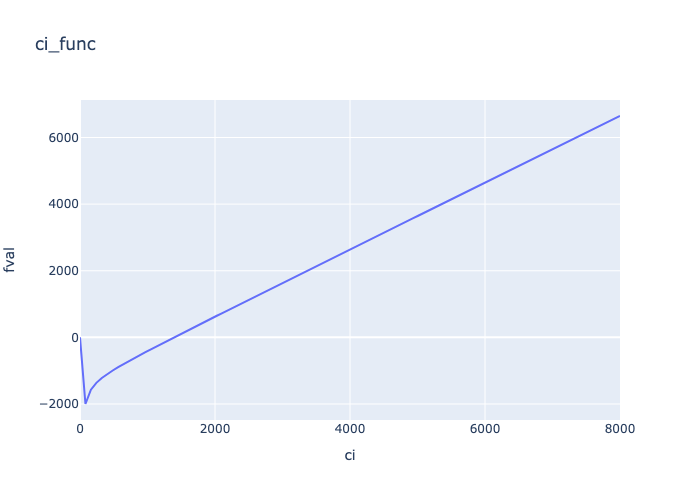
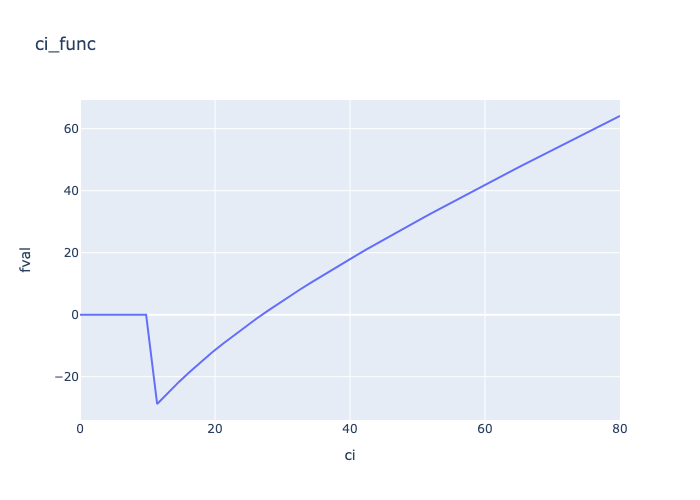
Update photosynthesis parameters

diff --git a/python_ci_func/jax_photosynthesis.py b/python_ci_func/jax_photosynthesis.py
@@ -2,7 +2,22 @@
 
 import jax.numpy as np
 
-def ci_func(ci, lmr_z, par_z, gb_mol, je, cair, oair, rh_can, p, iv, c, c3flag=True, stomatalcond_mtd=1):
+
+def ci_func(
+    ci,
+    lmr_z,
+    par_z,
+    gb_mol,
+    je,
+    cair,
+    oair,
+    rh_can,
+    p,
+    iv,
+    c,
+    c3flag=True,
+    stomatalcond_mtd=1,
+):
     # Constants
     forc_pbot = 121000.0
     medlynslope = 6.0
@@ -23,8 +38,8 @@ def ci_func(ci, lmr_z, par_z, gb_mol, je, cair, oair, rh_can, p, iv, c, c3flag=T
 
     # C3 or C4 photosynthesis
     if c3flag:
-        ac = vcmax_z * max(ci-cp, 0.0) / (ci+kc*(1.0+oair/ko))
-        aj = je * max(ci-cp, 0.0) / (4.0*ci+8.0*cp)
+        ac = vcmax_z * max(ci - cp, 0.0) / (ci + kc * (1.0 + oair / ko))
+        aj = je * max(ci - cp, 0.0) / (4.0 * ci + 8.0 * cp)
         ap = 3.0 * tpu_z
     else:
         ac = vcmax_z
@@ -36,13 +51,13 @@ def ci_func(ci, lmr_z, par_z, gb_mol, je, cair, oair, rh_can, p, iv, c, c3flag=T
     bquad = -(ac + aj)
     cquad = ac * aj
     r1, r2 = np.roots(np.array([aquad, bquad, cquad]))
-    ai = min(r1,r2)
+    ai = min(r1, r2)
 
     aquad = theta_ip
     bquad = -(ai + ap)
     cquad = ai * ap
     r1, r2 = np.roots(np.array([aquad, bquad, cquad]))
-    ag = max(0.0, min(r1,r2))
+    ag = max(0.0, min(r1, r2))
 
     # Net photosynthesis
     an = ag - lmr_z
@@ -51,97 +66,166 @@ def ci_func(ci, lmr_z, par_z, gb_mol, je, cair, oair, rh_can, p, iv, c, c3flag=T
         return fval, None, None
 
     # Quadratic gs_mol calculation
-    cs = cair - 1.4/gb_mol * an * forc_pbot
+    cs = cair - 1.4 / gb_mol * an * forc_pbot
     if stomatalcond_mtd == stomatalcond_mtd_medlyn2011:
-        term = 1.6 * an / (cs / forc_pbot * 1.e06)
+        term = 1.6 * an / (cs / forc_pbot * 1.0e06)
         aquad = 1.0
-        bquad = -(2.0 * (medlynintercept*1.e-06 + term) + (medlynslope * term)**2 / (gb_mol*1.e-06 * rh_can))
-        cquad = medlynintercept**2*1.e-12 + (2.0*medlynintercept*1.e-06 + term * (1.0 - medlynslope**2 / rh_can)) * term
+        bquad = -(
+            2.0 * (medlynintercept * 1.0e-06 + term)
+            + (medlynslope * term) ** 2 / (gb_mol * 1.0e-06 * rh_can)
+        )
+        cquad = (
+            medlynintercept**2 * 1.0e-12
+            + (
+                2.0 * medlynintercept * 1.0e-06
+                + term * (1.0 - medlynslope**2 / rh_can)
+            )
+            * term
+        )
         r1, r2 = np.roots(np.array([aquad, bquad, cquad]))
-        gs_mol = max(r1,r2) * 1.e06
+        gs_mol = max(r1, r2) * 1.0e06
     elif stomatalcond_mtd == stomatalcond_mtd_bb1987:
         aquad = cs
-        bquad = cs*(gb_mol - bbb) - mbb*an*forc_pbot
-        cquad = -gb_mol*(cs*bbb + mbb*an*forc_pbot*rh_can)
+        bquad = cs * (gb_mol - bbb) - mbb * an * forc_pbot
+        cquad = -gb_mol * (cs * bbb + mbb * an * forc_pbot * rh_can)
         r1, r2 = np.roots(np.array([aquad, bquad, cquad]))
-        gs_mol = max(r1,r2)
+        gs_mol = max(r1, r2)
     else:
         gs_mol = 0.0
 
     # Derive new estimate for ci
-    fval = ci - cair + an * forc_pbot * (1.4*gs_mol+1.6*gb_mol) / (gb_mol*gs_mol)
+    fval = (
+        ci - cair + an * forc_pbot * (1.4 * gs_mol + 1.6 * gb_mol) / (gb_mol * gs_mol)
+    )
 
     return fval.real, gs_mol.real, an.real
 
 
-def solve_ci(ci, lmr_z, par_z, gb_mol, je, cair, oair, rh_can, p, iv, c, c3flag=True, stomatalcond_mtd=1):
-
+def solve_ci(
+    ci,
+    lmr_z,
+    par_z,
+    gb_mol,
+    je,
+    cair,
+    oair,
+    rh_can,
+    p,
+    iv,
+    c,
+    c3flag=True,
+    stomatalcond_mtd=1,
+):
     # Define a function to find the root of my_function
     def find_root(ci):
-        return ci_func(ci, lmr_z, par_z, gb_mol, je, cair, oair, rh_can, p, iv, c, c3flag=True, stomatalcond_mtd=1)[0]
+        return ci_func(
+            ci,
+            lmr_z,
+            par_z,
+            gb_mol,
+            je,
+            cair,
+            oair,
+            rh_can,
+            p,
+            iv,
+            c,
+            c3flag=c3flag,
+            stomatalcond_mtd=stomatalcond_mtd,
+        )[0]
 
     # Use SciPy to find the root of my_function
     from scipy.optimize import root_scalar
-    sol = root_scalar(find_root, bracket=[20.0, 20000.0], method='brentq')
 
     # Graph value of ci_func from 1 to 100 using plotly
     import plotly.graph_objects as go
     import numpy as np
-    ci = np.linspace(0, 8000, 100)
-    fval = np.zeros(100)
-    for i in range(100):
+
+    # First find a negative value
+    lower = 0
+
+    ci = np.linspace(0, 80, 50)
+    fval = np.zeros(50)
+    for i in range(50):
         fval[i] = find_root(ci[i])
-    fig = go.Figure()
-    fig.add_trace(go.Scatter(x=ci, y=fval))
-    fig.update_layout(title='ci_func', xaxis_title='ci', yaxis_title='fval')
-    fig.write_image('./fig4.png')
+        if fval[i] < -1:
+            lower = ci[i]
 
-    _, gs_mol, an = ci_func(sol.root, lmr_z, par_z, gb_mol, je, cair, oair, rh_can, p, iv, c, c3flag=True, stomatalcond_mtd=1)
-    print('ci = ', sol.root, 'gs_mol = ', gs_mol, 'an = ', an)
+    # fig = go.Figure()
+    # fig.add_trace(go.Scatter(x=ci, y=fval))
+    # fig.update_layout(title="ci_func", xaxis_title="ci", yaxis_title="fval")
+    # fig.write_image("./fig4.png")
 
+    sol = root_scalar(find_root, bracket=[lower, 90.0], method="brentq")
 
+    _, gs_mol, an = ci_func(
+        sol.root,
+        lmr_z,
+        par_z,
+        gb_mol,
+        je,
+        cair,
+        oair,
+        rh_can,
+        p,
+        iv,
+        c,
+        c3flag=True,
+        stomatalcond_mtd=1,
+    )
+    print("ci = ", sol.root, "gs_mol = ", gs_mol, "an = ", an)
 
-    # Return the root of my_function
     return sol.root, gs_mol, an
 
 
-
-
-if __name__ == '__main__':
+if __name__ == "__main__":
     ci = 40
     lmr_z = 4
     par_z = 500
-    gb_mol = 500
-    je = 60
-    cair = 5000
+    gb_mol = 50_000
+    je = 40
+    cair = 45
     oair = 21000
     rh_can = 0.40
     p = 1
     iv = 1
     c = 1
 
-
     import plotly.graph_objects as go
     import numpy as np
-    # Try solving ci across ten values of cair
-    cair_range = np.linspace(2000, 10000, 10)
-    y = np.zeros(10)
-    for i in range(10):
-        print(cair_range[i])
-        ci_val, gs_mol, an = solve_ci(ci, lmr_z, par_z, gb_mol, je, cair_range[i], oair, rh_can, p, iv, c)
+
+    cair_range = np.linspace(15, 100, 100)
+    y = np.zeros(100)
+    an_vals = np.zeros(100)
+    ci_vals = np.zeros(100)
+    for i in range(100):
+        ci = cair_range[i] / 1.5
+        ci_val, gs_mol, an = solve_ci(
+            ci, lmr_z, par_z, gb_mol, je, cair_range[i], oair, rh_can, p, iv, c
+        )
+        ci_vals[i] = ci_val
+        an_vals[i] = an
         y[i] = gs_mol
     fig = go.Figure()
-    fig.add_trace(go.Scatter(x=cair_range, y=y))
-    fig.update_layout(title="gs_mol for different atmospheric CO2 pressure", xaxis_title='c_air', yaxis_title='gs_mol')
-    fig.write_image('./gs_mol.png')
+    fig.add_trace(go.Scatter(x=cair_range, y=y / 1e6))
+    fig.update_layout(
+        title="gs_mol for different atmospheric CO2 pressure",
+        xaxis_title="Atmospheric partial pressure of CO2 (Pa)",
+        yaxis_title="Stomatal conductance gs_mol (mol H2O/m**2/s)",
+    )
+    fig.write_image("./gs_mol.png")
 
+    # fig = go.Figure()
+    # fig.add_trace(go.Scatter(x=ci_vals, y=an_vals))
+    # fig.update_layout(
+    #     title="photosynthesis and c_i",
+    #     xaxis_title="c_i (Pa)",
+    #     yaxis_title="photosynthesis (umol CO2/m**2/s)",
+    # )
+    # fig.write_image("./photosynthesis.png")
 
-    
-
-
-
-    ci_val, gs_mol, an = solve_ci(ci, lmr_z, par_z, gb_mol, je, cair, oair, rh_can, p, iv, c)
-
-
+    # ci_val, gs_mol, an = solve_ci(
+    #     ci, lmr_z, par_z, gb_mol, je, cair, oair, rh_can, p, iv, c
+    # )
 
     # assert ci_val == pytest.approx(40.0)
